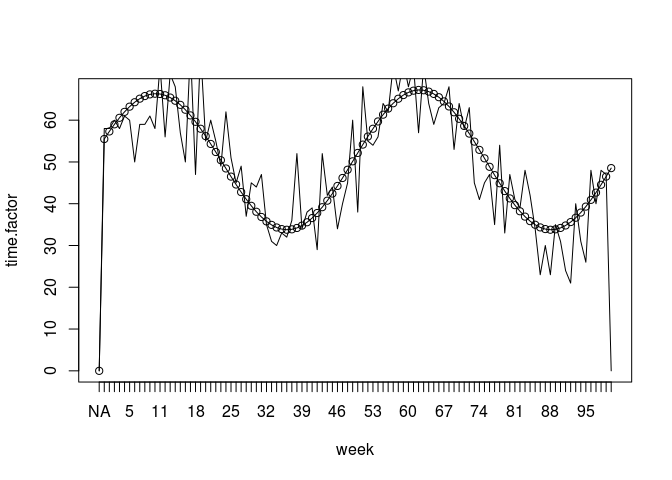
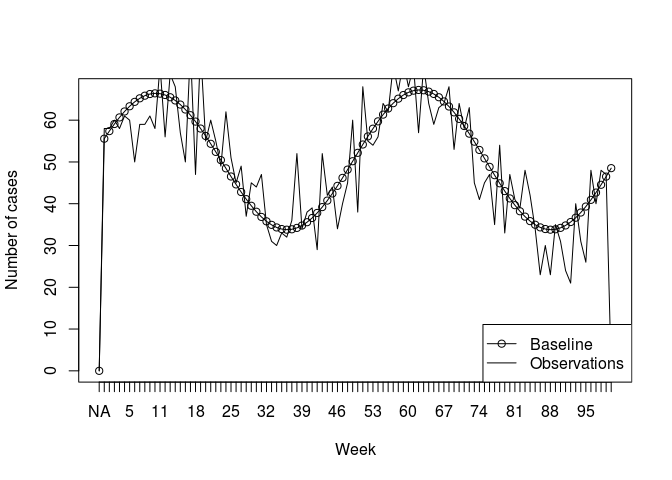
readme

diff --git a/README.md b/README.md
@@ -1,14 +1,21 @@
-Rancovr: Cluster detection in R with Random Neighbourhood Covering
-==================================================================
+# Rancovr: Cluster detection in R with Random Neighbourhood Covering
 
-`rancovr` is a statistical software package written in R for the detection of disease clusters based on the Random Neighbourhood Covering (RaNCover) of reference \[1\]. `rancovr` assess whether a single recorded infection is part of a disease cluster (such that caused by a local outbreak) or is consistent with a baseline of sporadic cases.
+`rancovr` is a statistical software package written in R for the
+detection of disease clusters based on the Random Neighbourhood Covering
+(RaNCover) of reference \[1\]. `rancovr` assess whether a single
+recorded infection is part of a disease cluster (such that caused by a
+local outbreak) or is consistent with a baseline of sporadic cases.
 
 ``` r
 install.packages("devtools")
 devtools::install_github("mcavallaro/rancovr")
 ```
 
-As a demonstration, we consider the spatio-temporal coordinates stored in `Data/synthetic_dataset.csv`, which represent records of infection cases and is obtained aggregating data simulated from an endemic component (`end.`) and from an outbreak (`epi.`) in UK. See reference \[1\] for the simulation details.
+As a demonstration, we consider the spatio-temporal coordinates stored
+in `Data/synthetic_dataset.csv`, which represent records of infection
+cases and is obtained aggregating data simulated from an endemic
+component (`end.`) and from an outbreak (`epi.`) in the UK. See
+reference \[1\] for the simulation details.
 
 ``` r
 case.df = read.csv(file=system.file('extdata', 'synthetic_dataset.csv' , package='rancovr'), sep = ',', stringsAsFactors = F)
@@ -18,57 +25,48 @@ case.df = read.csv(file=system.file('extdata', 'synthetic_dataset.csv' , package
 head(case.df)
 ```
 
-    ##   week postcode latitude longitude population        y         x
-    ## 1    0  B14 6TN 52.42452 -1.906414         80 5829.607 -63.43771
-    ## 2    0  B15 2BQ 52.47047 -1.908348         59 5834.716 -63.27718
-    ## 3    0  B42 2RZ 52.53757 -1.902311        177 5842.178 -62.74949
-    ## 4    0  B61 0DB 52.34426 -2.052947         18 5820.682 -68.73608
-    ## 5    0  B91 3GX 52.40486 -1.775618         17 5827.421 -59.17484
-    ## 6    0  BH178AN 50.75126 -1.961944        128 5643.541 -73.64748
-    ##   warning.score  sim
-    ## 1     0.1538462 end.
-    ## 2     0.1339286 end.
-    ## 3     0.1220339 end.
-    ## 4     0.1150442 end.
-    ## 5     0.1717557 end.
-    ## 6     0.1230769 end.
+    ##   week postcode latitude longitude population        y         x warning.score
+    ## 1    0  B14 6TN 52.42452 -1.906414         80 5829.607 -63.43771     0.1538462
+    ## 2    0  B15 2BQ 52.47047 -1.908348         59 5834.716 -63.27718     0.1339286
+    ## 3    0  B42 2RZ 52.53757 -1.902311        177 5842.178 -62.74949     0.1220339
+    ## 4    0  B61 0DB 52.34426 -2.052947         18 5820.682 -68.73608     0.1150442
+    ## 5    0  B91 3GX 52.40486 -1.775618         17 5827.421 -59.17484     0.1717557
+    ## 6    0  BH178AN 50.75126 -1.961944        128 5643.541 -73.64748     0.1230769
+    ##    sim
+    ## 1 end.
+    ## 2 end.
+    ## 3 end.
+    ## 4 end.
+    ## 5 end.
+    ## 6 end.
 
 ``` r
 CreateObservationMatrices(case.df)
 ```
 
-    ## The variable `observation.matrix` has been saved on disk in file `/home/massimo/Documents/Rancovr/observation_matrix_tmp.Rdata`.
-    ## Load on memory with `load("/home/massimo/Documents/Rancovr/observation_matrix_tmp.Rdata", verbose=1)`.
+    ## The variable `observation.matrix` has been saved on disk in file `/home/massimo/Documents/rancovr/observation_matrix_tmp.Rdata`.
+    ## Load on memory with `load("/home/massimo/Documents/rancovr/observation_matrix_tmp.Rdata", verbose=1)`.
 
 ``` r
-time.factor = TimeFactor(case.df)
+time.factor = TimeFactor(case.df, n.iterations=5)
 ```
 
     ## Computing the temporal baseline.
-    ## Estimating parameters for temporal trend, step  1  of  10 .
-    Estimating parameters for temporal trend, step  2  of  10 .
-    Estimating parameters for temporal trend, step  3  of  10 .
-    Estimating parameters for temporal trend, step  4  of  10 .
-    Estimating parameters for temporal trend, step  5  of  10 .
-    Estimating parameters for temporal trend, step  6  of  10 .
-    Estimating parameters for temporal trend, step  7  of  10 .
-    Estimating parameters for temporal trend, step  8  of  10 .
-    Estimating parameters for temporal trend, step  9  of  10 .
-    Estimating parameters for temporal trend, step  10  of  10 .
-    The variable `time.factor` has been saved on disk in file `/home/massimo/Documents/Rancovr/timefactor_tmp.Rdata`.
-    ## Load on memory with `load("/home/massimo/Documents/Rancovr/timefactor_tmp.Rdata", verbose=1)`.
+    ## Estimating parameters for temporal trend, step  1  of  5 .Estimating parameters for temporal trend, step  2  of  5 .Estimating parameters for temporal trend, step  3  of  5 .Estimating parameters for temporal trend, step  4  of  5 .Estimating parameters for temporal trend, step  5  of  5 .The variable `time.factor` has been saved on disk in file `/home/massimo/Documents/rancovr/timefactor_tmp.Rdata`.
+    ## Load on memory with `load("/home/massimo/Documents/rancovr/timefactor_tmp.Rdata", verbose=1)`.
 
 ``` r
 baseline.matrix = CreateBaselineMatrix(case.df , save.on.dir = T)
 ```
 
     ## Temporal baseline loaded.
-    ## Compiling the table that maps the rows of the observation matrix to geo-coordinates and population.
+    ## Compiling the table that maps the rows of the observation/baseline matrix to geo-coordinates and population.
     ## Loading objects:
     ##   postcode2coord
-    ## Using data loaded from `Data/postcode2coord.Rdata`
-    ## The variable `baseline.matrix` has been saved on disk in file `/home/massimo/Documents/Rancovr/baseline_matrix_tmp.Rdata`.
-    ## Load on memory with `load("/home/massimo/Documents/Rancovr/baseline_matrix_tmp.Rdata", verbose=1)`.
+    ## The variable `postcode2coord` has been saved on disk in file `/home/massimo/Documents/rancovr/postcode2coord_tmp.Rdata`.
+    ## Load on memory with `load("/home/massimo/Documents/rancovr/postcode2coord_tmp.Rdata", verbose=1)`.
+    ## The variable `baseline.matrix` has been saved on disk in file `/home/massimo/Documents/rancovr/baseline_matrix_tmp.Rdata`.
+    ## Load on memory with `load("/home/massimo/Documents/rancovr/baseline_matrix_tmp.Rdata", verbose=1)`.
 
 ``` r
 load(file.path(getwd(), "observation_matrix_tmp.Rdata"), verbose=1)
@@ -78,10 +76,11 @@ load(file.path(getwd(), "observation_matrix_tmp.Rdata"), verbose=1)
     ##   observation.matrix
 
 ``` r
-plot(time.factor, xlab = 'week', xaxt='n')
+plot(time.factor, xlab = 'Week', ylab='Number of cases', xaxt='n')
 lines(colSums(baseline.matrix))
 lines(colSums(observation.matrix))
 axis(side=1, at=1:length(time.factor), labels = names(time.factor))
+legend('bottomright',legend=c('Baseline', 'Observations'), pch=c(1, NA), lty=c(1,1))
 ```
 
 ![](README_files/figure-markdown_github/unnamed-chunk-8-1.png)
@@ -94,27 +93,24 @@ cylinders = CreateCylinders(observation.matrix = observation.matrix,
                             week.range = c(0,99), n.cylinders = 1000)
 ```
 
+    ## Compiling the table that maps the rows of the observation/baseline matrix to geo-coordinates and population.
+    ## Loading objects:
+    ##   postcode2coord
+    ## Using data loaded from `postcode2coord_tmp.Rdata`
     ## Evaluating cylinder exceedances from  01/01/15  to  24/11/16 .
-    ## Time difference of 1.047464 secs
+    ## Time difference of 1.316543 secs
 
 ``` r
 head(cylinders)
 ```
 
-    ##           x        y       rho t.low t.upp n_obs         mu       p.val
-    ## 1 -50.60803 5977.949 10.854219     9    17    20 20.4310316 0.567569137
-    ## 2 -68.62424 5838.785 14.358782     9    14    19 19.8256198 0.603735837
-    ## 3 -33.63420 5885.141  6.266686    73    95     8  5.6532285 0.209814056
-    ## 4 -15.92438 5882.221 14.358782    86    91     2  0.5049572 0.091711064
-    ## 5 -53.13067 5970.904  8.290047    71    84    16  6.4240855 0.001030094
-    ## 6 -12.62977 5732.624  6.421442    63    84    35 25.2947220 0.038793906
-    ##   warning
-    ## 1   FALSE
-    ## 2   FALSE
-    ## 3   FALSE
-    ## 4   FALSE
-    ## 5    TRUE
-    ## 6    TRUE
+    ##            x        y       rho t.low t.upp n_obs        mu     p.val warning
+    ## 1 -43.169149 6116.120  6.420488    28    49     6 13.258411 0.9909365   FALSE
+    ## 2 -32.609732 5888.756  8.288814    24    37     6  5.938776 0.5444368   FALSE
+    ## 3  -7.155693 5733.300  7.178324    42    59    33 46.761937 0.9854460   FALSE
+    ## 4  -4.269844 5742.414 12.840976    72    78    22 33.854769 0.9876622   FALSE
+    ## 5 -21.449581 6015.950  7.963635    68    82     1  0.000000 0.0000000    TRUE
+    ## 6 -67.040900 5828.258 12.840976    59    65    10 21.062282 0.9973360   FALSE
 
 Compute the warning score for each case:
 
@@ -123,20 +119,20 @@ case.df[,'warning.score'] = apply(case.df, 1, FUN=warning.score, cylinders)
 head(case.df)
 ```
 
-    ##   week postcode latitude longitude population        y         x
-    ## 1    0  B14 6TN 52.42452 -1.906414         80 5829.607 -63.43771
-    ## 2    0  B15 2BQ 52.47047 -1.908348         59 5834.716 -63.27718
-    ## 3    0  B42 2RZ 52.53757 -1.902311        177 5842.178 -62.74949
-    ## 4    0  B61 0DB 52.34426 -2.052947         18 5820.682 -68.73608
-    ## 5    0  B91 3GX 52.40486 -1.775618         17 5827.421 -59.17484
-    ## 6    0  BH178AN 50.75126 -1.961944        128 5643.541 -73.64748
-    ##   warning.score  sim
-    ## 1           0.0 end.
-    ## 2           0.0 end.
-    ## 3           0.0 end.
-    ## 4           0.0 end.
-    ## 5           0.0 end.
-    ## 6           0.5 end.
+    ##   week postcode latitude longitude population        y         x warning.score
+    ## 1    0  B14 6TN 52.42452 -1.906414         80 5829.607 -63.43771             0
+    ## 2    0  B15 2BQ 52.47047 -1.908348         59 5834.716 -63.27718             0
+    ## 3    0  B42 2RZ 52.53757 -1.902311        177 5842.178 -62.74949             0
+    ## 4    0  B61 0DB 52.34426 -2.052947         18 5820.682 -68.73608             0
+    ## 5    0  B91 3GX 52.40486 -1.775618         17 5827.421 -59.17484             0
+    ## 6    0  BH178AN 50.75126 -1.961944        128 5643.541 -73.64748             0
+    ##    sim
+    ## 1 end.
+    ## 2 end.
+    ## 3 end.
+    ## 4 end.
+    ## 5 end.
+    ## 6 end.
 
 Assess concordance with ROC-ACU
 
@@ -167,4 +163,7 @@ plot(ROC)
 
 ![](README_files/figure-markdown_github/unnamed-chunk-11-1.png)
 
-\[1\] M. Cavallaro, J. Coelho, D. Ready, V. Decraene, T. Lamagni, N. D. McCarthy, D. Todkill, M. J. Keeling, Cluster detection with random neighbourhood covering: application to invasive Group A Streptococcal disease, 2021
+\[1\] M. Cavallaro, J. Coelho, D. Ready, V. Decraene, T. Lamagni, N. D.
+McCarthy, D. Todkill, M. J. Keeling, Cluster detection with random
+neighbourhood covering: application to invasive Group A Streptococcal
+disease, 2021
